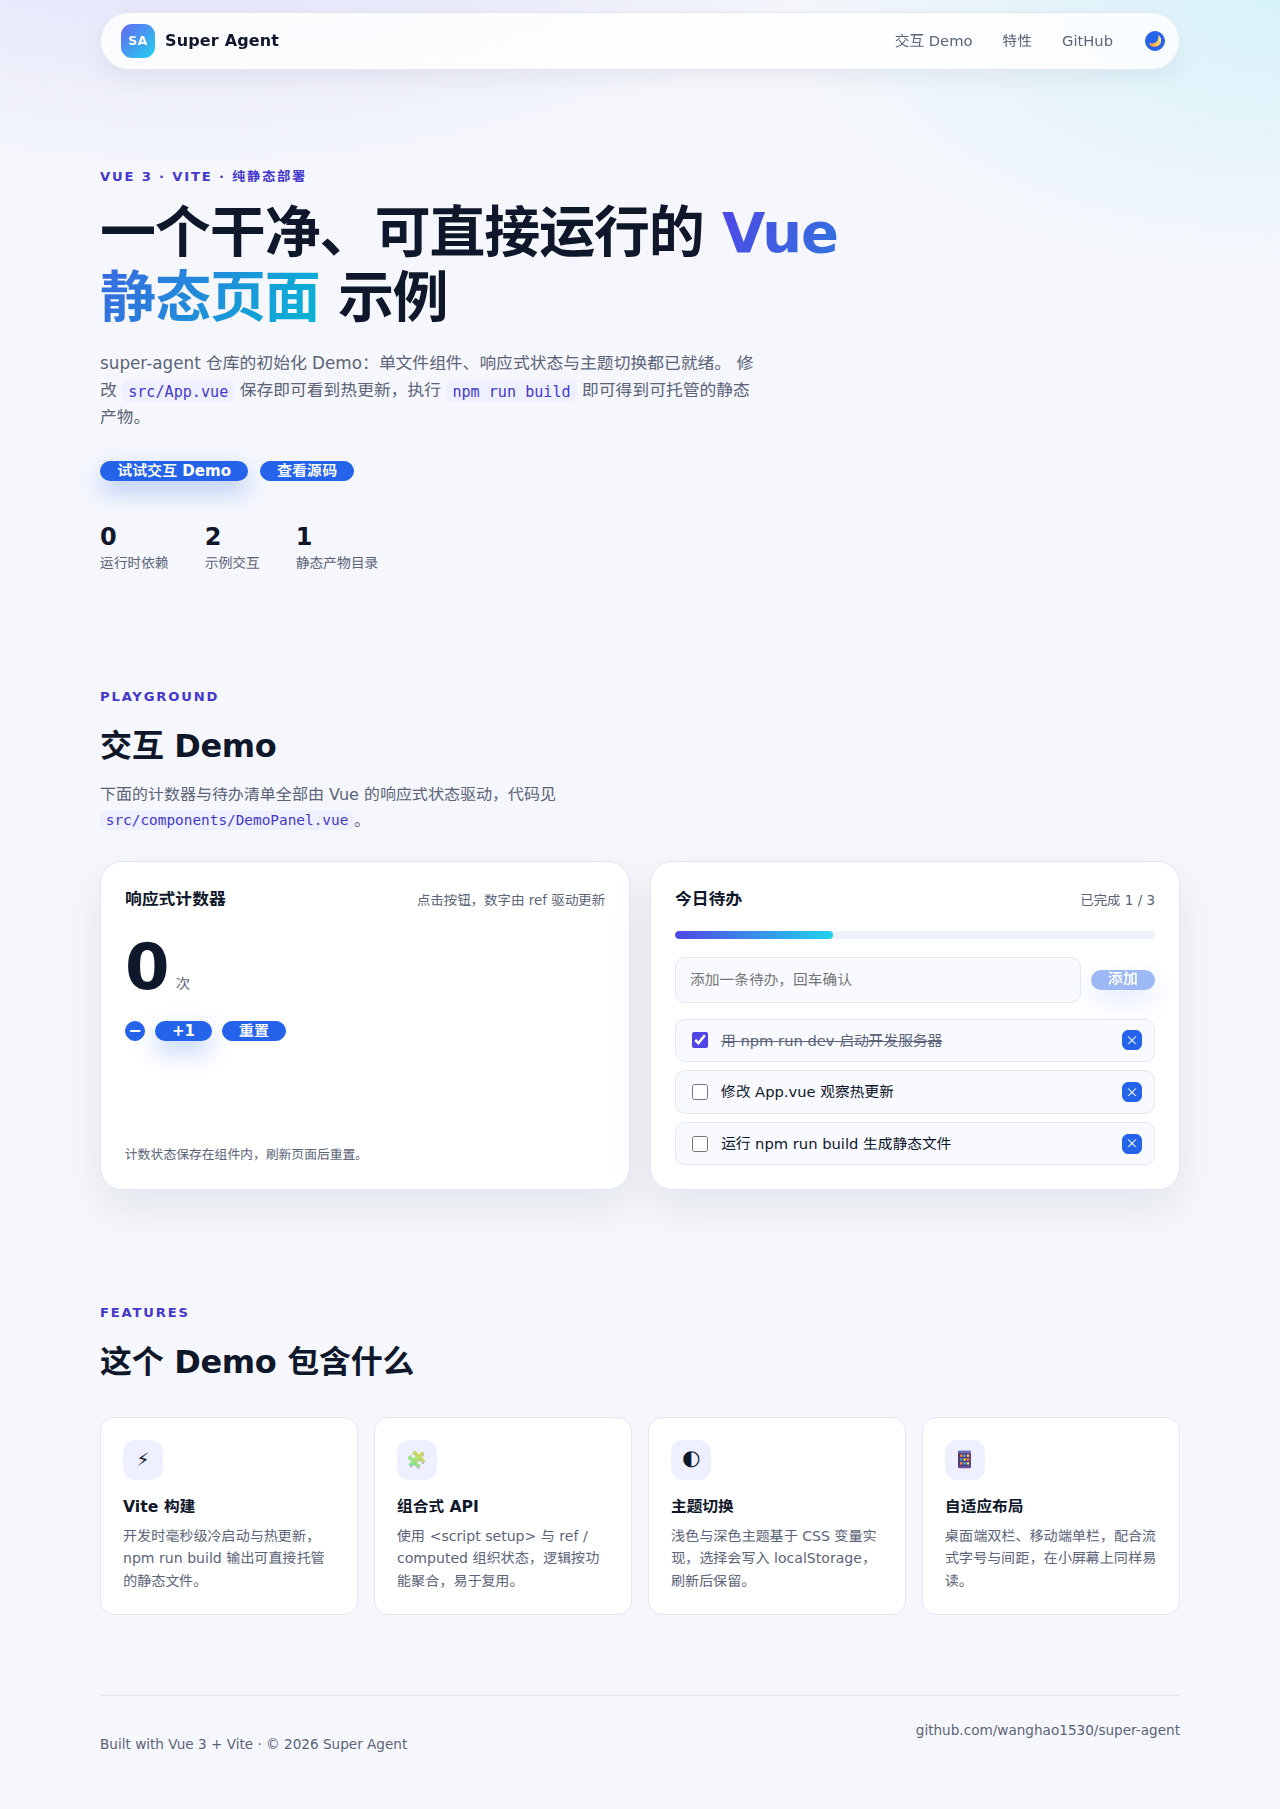
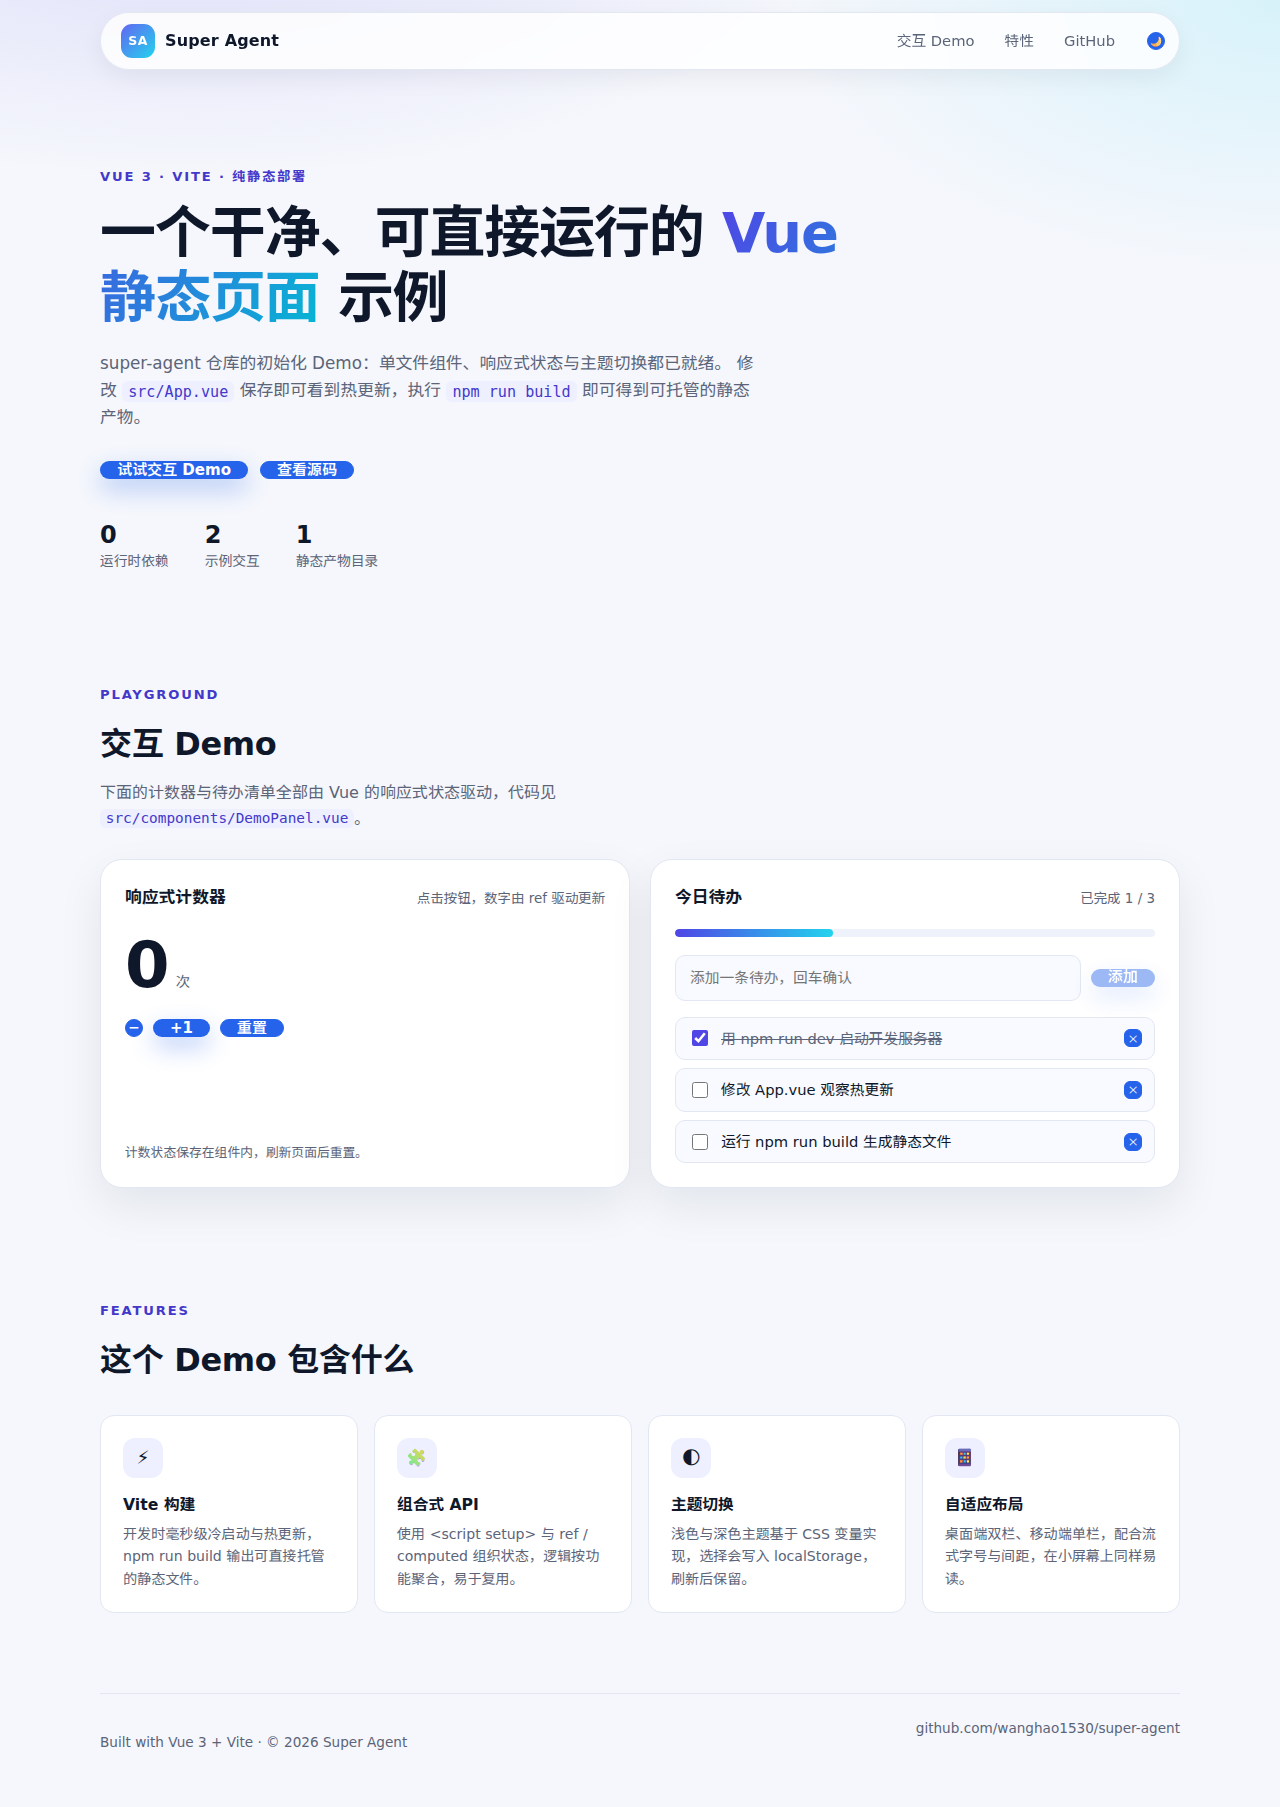
style: reduce all button heights to 18px
Follow the review request: every button control is now 18px high
instead of 20px. Icon buttons are 18x18, and their glyph sizes are
reduced so the theme emoji, minus sign and delete icon still fit.

Refresh the after screenshots and add the previous 20px close-ups for
comparison.

diff --git a/src/assets/main.css b/src/assets/main.css
@@ -160,14 +160,14 @@ code {
 .theme-toggle {
   display: grid;
   place-items: center;
-  width: 20px;
-  height: 20px;
+  width: 18px;
+  height: 18px;
   padding: 0;
   border: 1px solid var(--button-bg);
   border-radius: 50%;
   background: var(--button-bg);
   color: var(--button-fg);
-  font-size: 0.8rem;
+  font-size: 0.7rem;
   line-height: 1;
   cursor: pointer;
   transition: transform 0.2s ease, border-color 0.2s ease, background-color 0.2s ease;
@@ -262,7 +262,7 @@ code {
   align-items: center;
   justify-content: center;
   gap: 6px;
-  height: 20px;
+  height: 18px;
   padding: 0 16px;
   border: 1px solid transparent;
   border-radius: 999px;
@@ -321,12 +321,12 @@ code {
 }
 
 .button--square {
-  width: 20px;
+  width: 18px;
   padding: 0;
   border-color: var(--button-bg);
   background: var(--button-bg);
   color: var(--button-fg);
-  font-size: 1rem;
+  font-size: 0.85rem;
   line-height: 1;
 }
 
@@ -533,12 +533,12 @@ code {
   display: inline-flex;
   align-items: center;
   justify-content: center;
-  width: 20px;
-  height: 20px;
+  width: 18px;
+  height: 18px;
   border: 1px solid var(--button-bg);
   background: var(--button-bg);
   color: var(--button-fg);
-  font-size: 0.8rem;
+  font-size: 0.7rem;
   line-height: 1;
   padding: 0;
   cursor: pointer;
